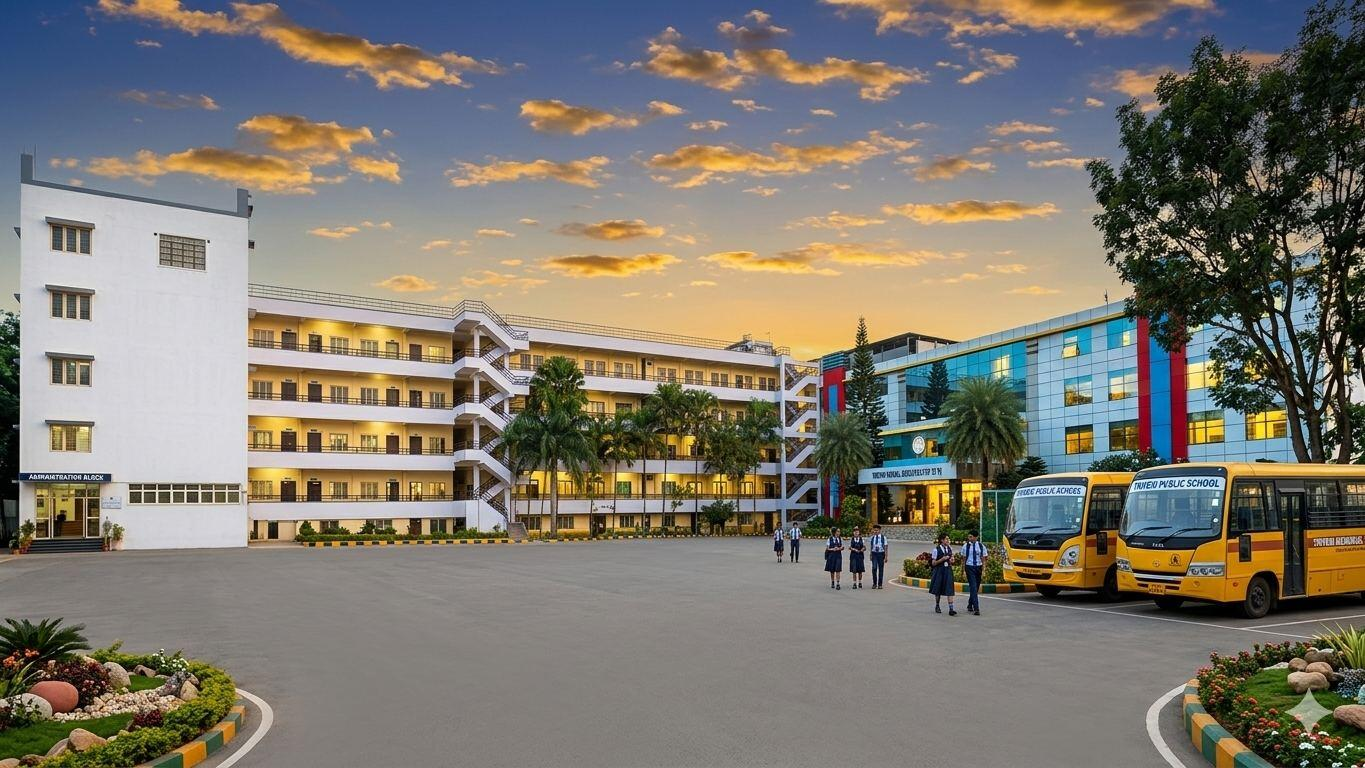
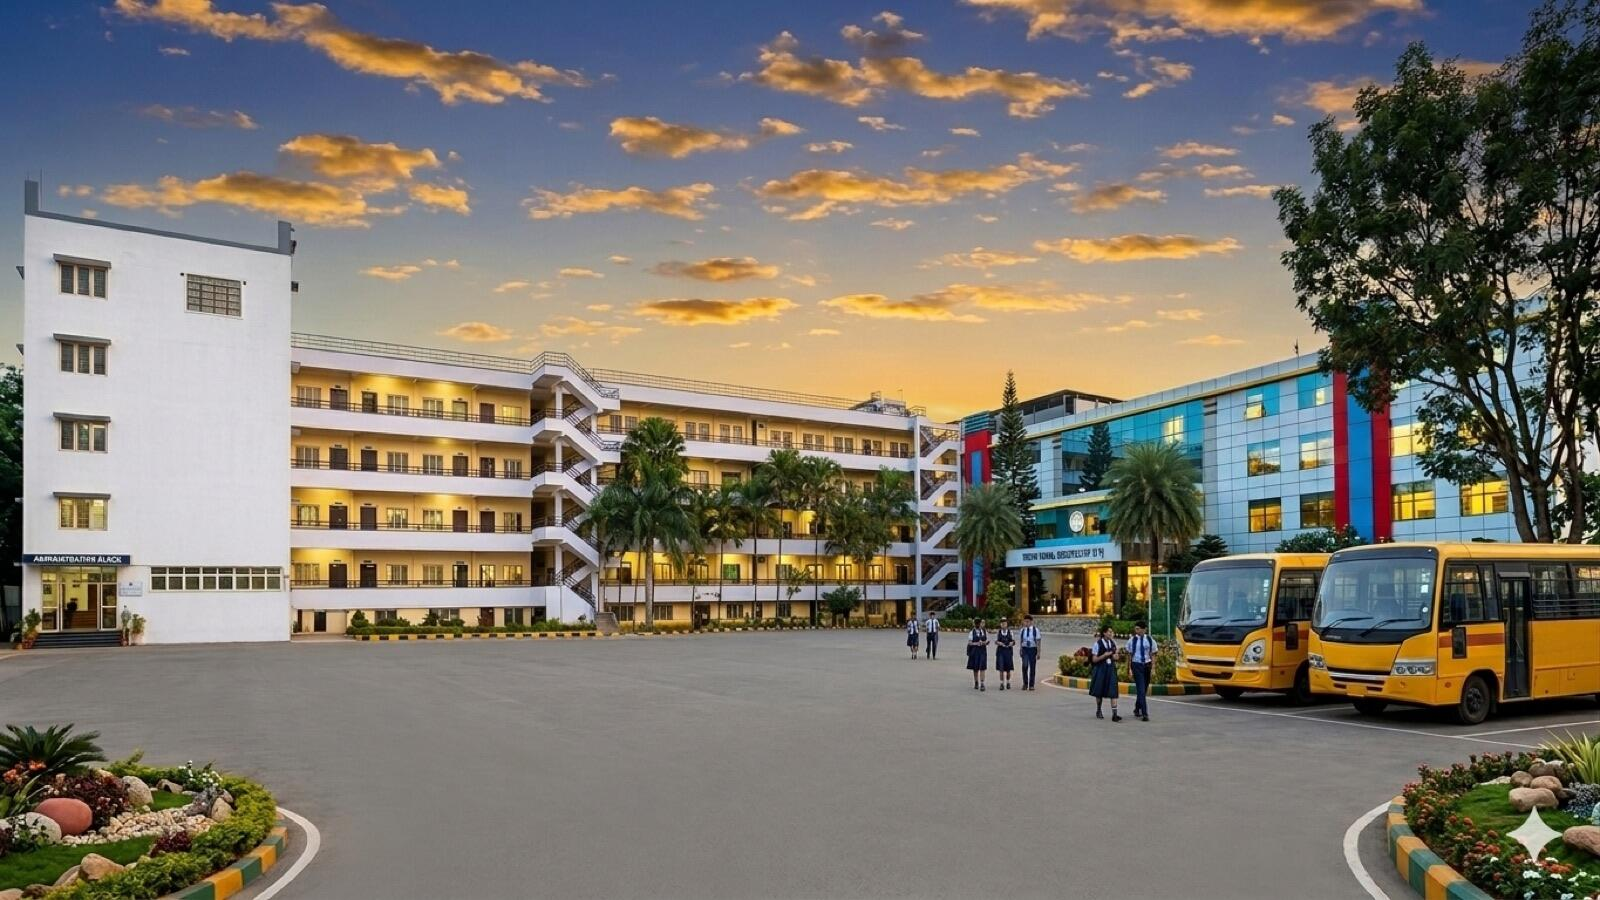
fix: hero overlap on lg laptops, equal-height testimonial cards, new hero
- Hero: shorten "NIE Partner: Times of India & The Hindu" trust badge to
  "NIE · TOI & The Hindu" so all 4 badges fit in one row at the lg
  breakpoint (1024–1279px). Bumped lg:pb-40 → lg:pb-56 (xl:pb-44) so
  even when badges wrap on narrow lg screens they no longer collide
  with the absolute-positioned stats bar.
- Testimonials: Option C — equal-height cards via min-h-95 + Swiper
  align-items:stretch. Quote line-clamp-7 by default; "Read more"
  reveals the full text inline for long testimonials. Author block
  pinned to the bottom regardless of quote length.
- Marquee: pauseOnMouseEnter:true so the carousel stops while user
  reads an expanded card.
- Hero image: replaced with Gemini-generated version that removes the
  old "Triveni Public School" wording from the school buses.
  Optimised 2.2MB PNG → 206KB JPG (q75, max 1600px).

diff --git a/components/ui/testimonial.tsx b/components/ui/testimonial.tsx
@@ -1,3 +1,6 @@
+'use client'
+
+import { useState } from 'react'
 import { cn } from '@/lib/utils'
 
 export interface TestimonialCardProps {
@@ -9,10 +12,16 @@ export interface TestimonialCardProps {
   className?: string
 }
 
+// Show "Read more" only when the quote is long enough to actually need it.
+const LONG_QUOTE_THRESHOLD = 220
+
 export function TestimonialCard({ quote, name, role, imageSrc, imageAlt, className }: TestimonialCardProps) {
+  const [expanded, setExpanded] = useState(false)
+  const isLong = quote.length > LONG_QUOTE_THRESHOLD
+
   return (
     <div className={cn(
-      'w-80 shrink-0 flex flex-col items-start border border-border p-6 rounded-2xl bg-white shadow-sm',
+      'w-80 shrink-0 flex flex-col items-start border border-border p-6 rounded-2xl bg-white shadow-sm min-h-95',
       className
     )}>
       {/* Quote icon */}
@@ -27,11 +36,24 @@ export function TestimonialCard({ quote, name, role, imageSrc, imageAlt, classNa
         ))}
       </div>
 
-      {/* Quote text */}
-      <p className="text-sm mt-4 text-muted leading-[1.75] flex-1">{quote}</p>
+      {/* Quote text — clamped by default; clicking "Read more" reveals the full quote */}
+      <p className={cn('text-sm mt-4 text-muted leading-[1.75]', !expanded && 'line-clamp-7')}>
+        {quote}
+      </p>
 
-      {/* Avatar + name */}
-      <div className="flex items-center gap-3 mt-5">
+      {/* Read more / less toggle — only when the quote is actually long */}
+      {isLong && (
+        <button
+          type="button"
+          onClick={() => setExpanded(prev => !prev)}
+          className="mt-2 text-accent font-urbanist font-semibold text-[13px] hover:underline self-start"
+        >
+          {expanded ? 'Read less ↑' : 'Read more →'}
+        </button>
+      )}
+
+      {/* Avatar + name — pinned to the bottom regardless of quote length */}
+      <div className="flex items-center gap-3 mt-auto pt-5">
         {/* eslint-disable-next-line @next/next/no-img-element */}
         <img
           src={imageSrc}

diff --git a/components/sections/Hero.tsx b/components/sections/Hero.tsx
@@ -17,7 +17,7 @@ const stats: StatItem[] = [
 const trust = [
   { icon: 'ri-checkbox-circle-fill', text: '25+ Years of Excellence' },
   { icon: 'ri-checkbox-circle-fill', text: 'ICSE Curriculum' },
-  { icon: 'ri-checkbox-circle-fill', text: 'NIE Partner: Times of India & The Hindu' },
+  { icon: 'ri-checkbox-circle-fill', text: 'NIE · TOI & The Hindu' },
   { icon: 'ri-checkbox-circle-fill', text: 'Grades I to VIII' },
 ]
 
@@ -44,7 +44,7 @@ export default function Hero() {
 
       {/* Content */}
       <div className="relative z-10 flex-1 flex items-center">
-        <div className="container-main w-full pt-24 pb-10 md:py-28 md:pb-16 lg:py-35 lg:pb-40">
+        <div className="container-main w-full pt-24 pb-10 md:py-28 md:pb-16 lg:pt-32 lg:pb-56 xl:pb-44">
           <FadeIn>
             <div className="w-full lg:w-[58%]">
 

diff --git a/app/globals.css b/app/globals.css
@@ -123,3 +123,12 @@
   @keyframes spin-cw  { to { transform: rotate( 360deg); } }
   @keyframes spin-ccw { to { transform: rotate(-360deg); } }
 }
+
+/* ── Testimonials marquee — equalise slide heights so every card matches the tallest ── */
+.testimonials-marquee .swiper-wrapper {
+  align-items: stretch;
+}
+.testimonials-marquee .swiper-slide {
+  height: auto;
+  display: flex;
+}

diff --git a/components/sections/TestimonialsMarquee.tsx b/components/sections/TestimonialsMarquee.tsx
@@ -27,7 +27,7 @@ export default function TestimonialsMarquee() {
       autoplay={{
         delay: 1,
         disableOnInteraction: false,
-        pauseOnMouseEnter: false,
+        pauseOnMouseEnter: true,
       }}
       loopAdditionalSlides={3}
       onSwiper={(swiper: SwiperType) => {
